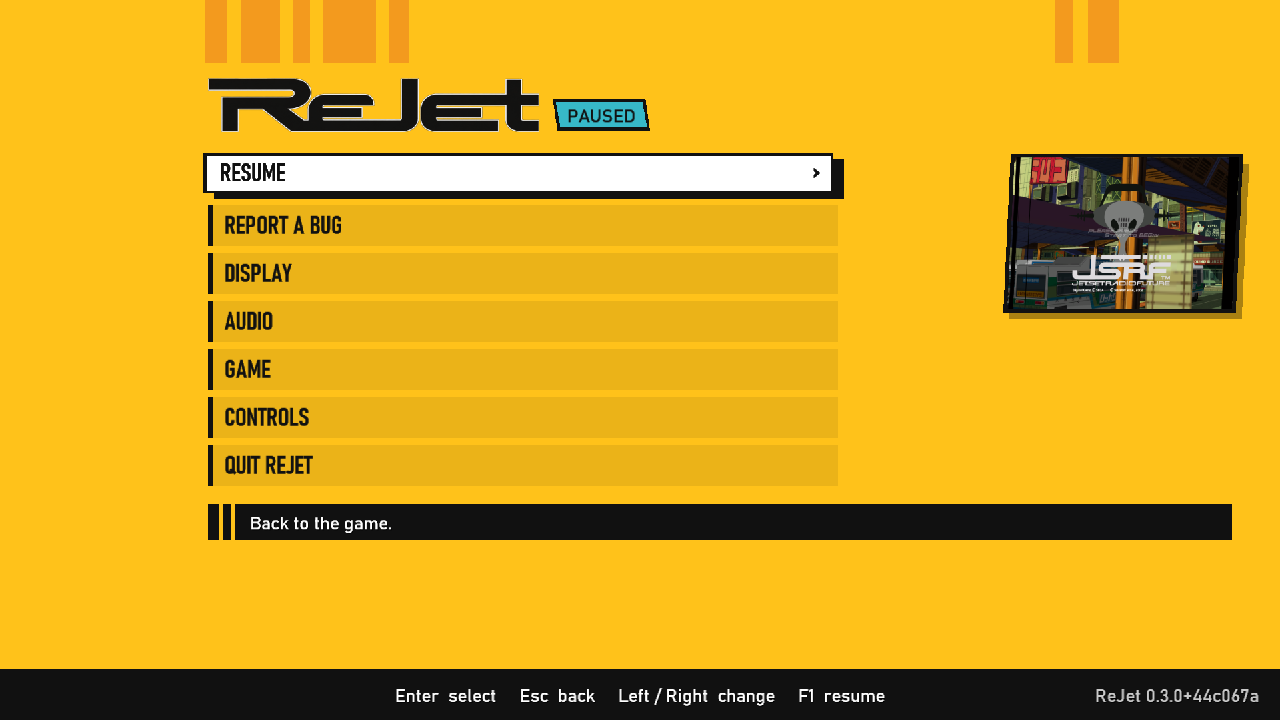
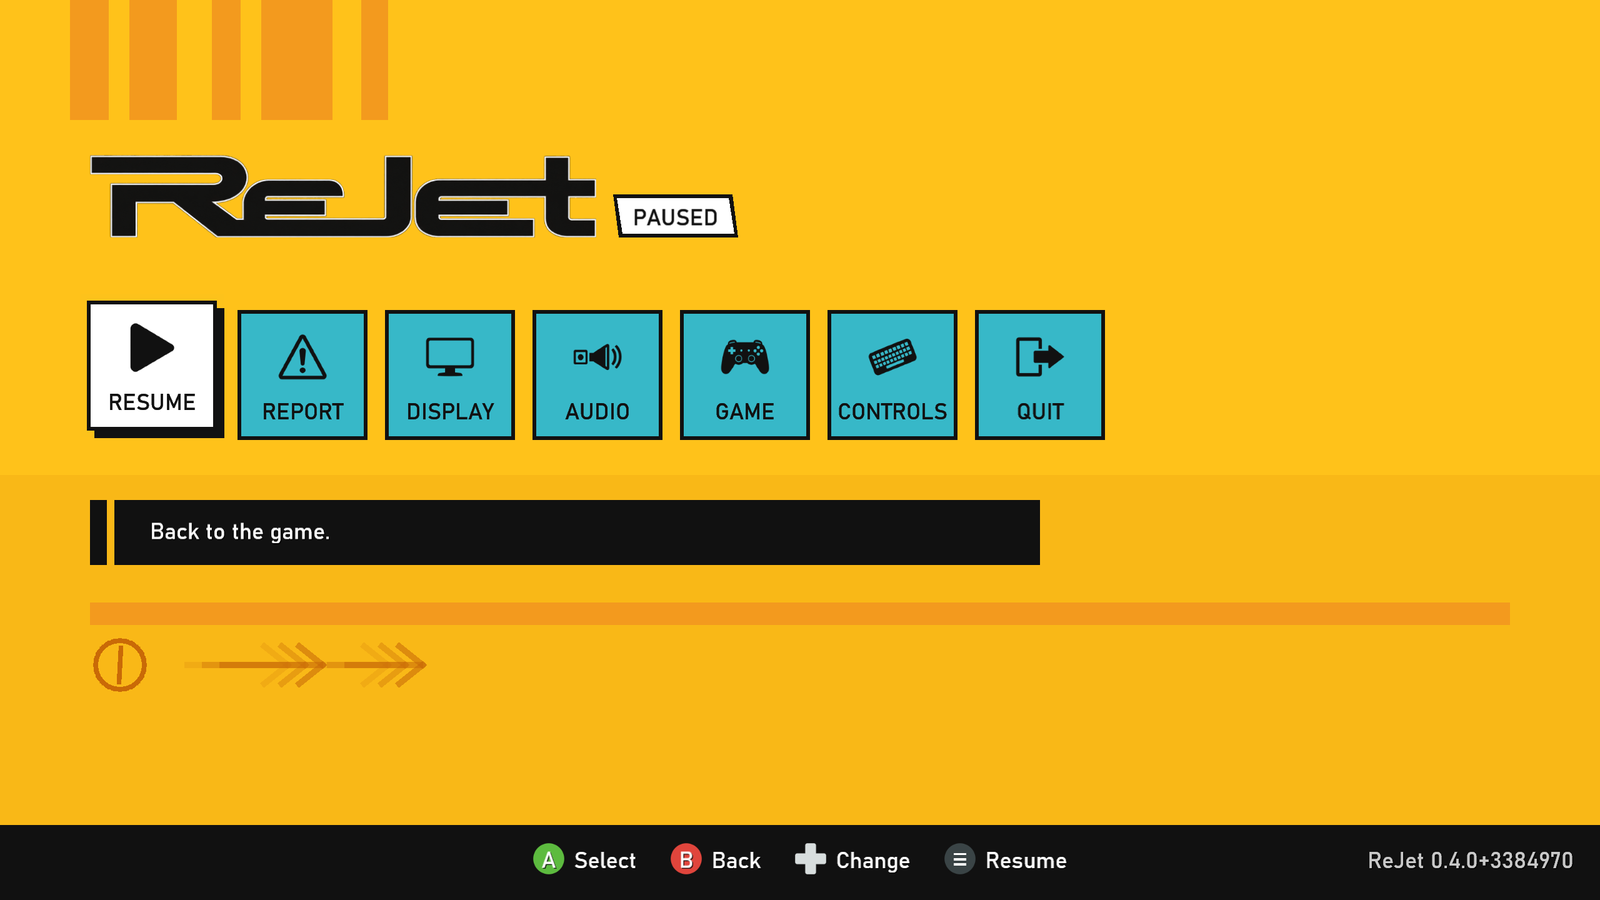
docs(readme): alpha 4 menu screenshots and HUD features
The ReJet menu's pause page and display settings, captured full screen
at 2560x1440 on the 0.4.0 build; the HUD feature list and what's
planned next.

diff --git a/README.md b/README.md
@@ -16,7 +16,8 @@ It works a bit like a translator. Xbox games are 32-bit x86 programs, just like 
 |---|---|
 | ![Skating in the GG's Garage in widescreen](docs/images/gameplay.png) | ![A cutscene with a speech bubble](docs/images/dialogue.png) |
 | ![The title menu](docs/images/title.png) | ![The map screen](docs/images/map.png) |
-| ![The ReJet menu](docs/images/rejet-menu.png) | ![First-time setup](docs/images/setup.png) |
+| ![The ReJet menu](docs/images/rejet-menu.png) | ![The ReJet menu's display settings](docs/images/rejet-display.png) |
+| ![First-time setup](docs/images/setup.png) | |
 
 ## What you need
 
@@ -71,7 +72,7 @@ Press **F1**, or **Back and Start together** on a controller, at any time. The g
 - **Volume control**, mute while you're in another window, an FPS counter, VSync.
 - **Smooth frame pacing**: on 60, 120 and 240 Hz displays every frame lines up with the screen's refresh, so motion stays even.
 - **Always 60 Hz**: the European disc's 50 Hz mode is gone, so the game always runs at full speed.
-- **A choice of HUD** (Game > HUD): *Classic* is the game's own, *ReJet* redraws it in a cleaner cel-shaded style at the screen's edges: health, cans and the boost sign, the speed meter, the score, trick combos, and **how many of the stage's tags are done** (single player for now).
+- **A choice of HUD** (Game > HUD): *Classic* is the game's own, *ReJet* redraws it in a cleaner cel-shaded style at the screen's edges, with new artwork that stays sharp at any resolution: health, cans and the boost sign, the speed meter, the score, trick combos, graffiti soul pickups, a crisp race timer, and **how many of the stage's tags are done** (single player for now).
 - **Skip the graffiti warning** at start-up with Start or A, like the logo movies.
 - **First-time setup** that finds and checks your game for you.
 - **Built-in bug reporting**: one menu option saves everything needed to look into a problem.
@@ -90,7 +91,8 @@ The same frame of the intro fly-through, rendered by ReJet with the original loo
 
 ## What's planned
 
-- **The ReJet HUD in split screen.**
+- **Widescreen for the remaining screens**: the loading screen, character select and the pause menu's map don't fit widescreen yet (parts clip or show at the sides).
+- **The rest of the ReJet HUD**: the tagging gauge, the yellow sign's other states, races with laps and positions, then split screen.
 - **Right-stick camera control** and **button remapping**.
 - **Your own music**: the Xbox let Jet Set Radio Future play songs from its hard drive, and ReJet could map that to a folder on your PC.
 - **Skipping the intro logos**, and controller rumble on/off.
